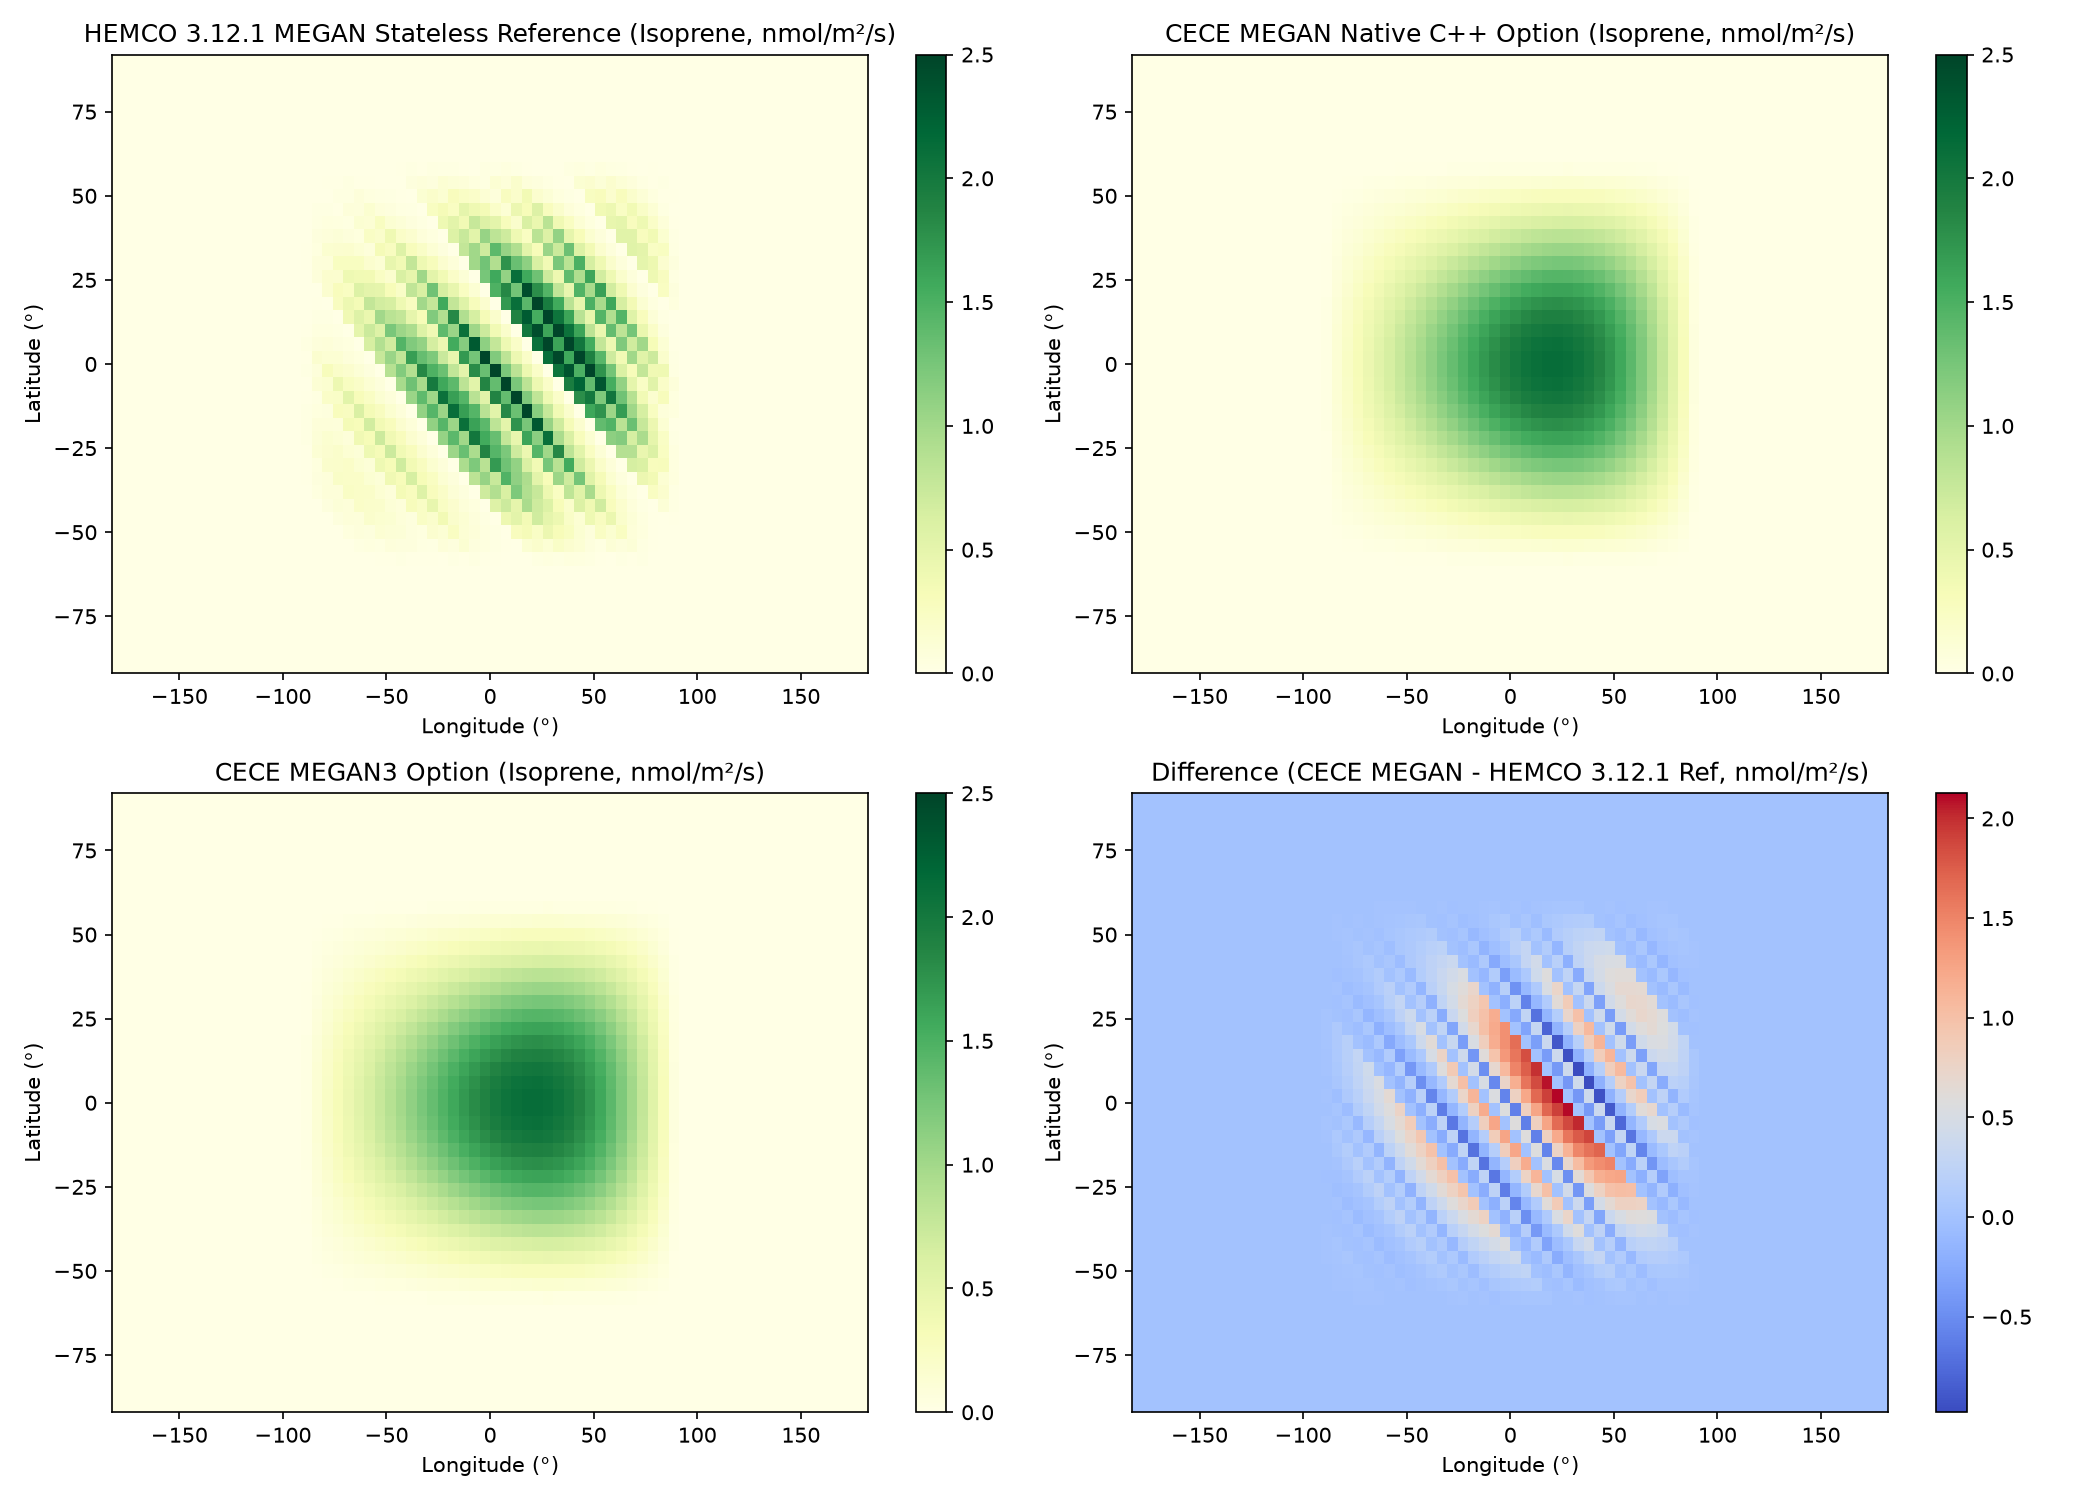
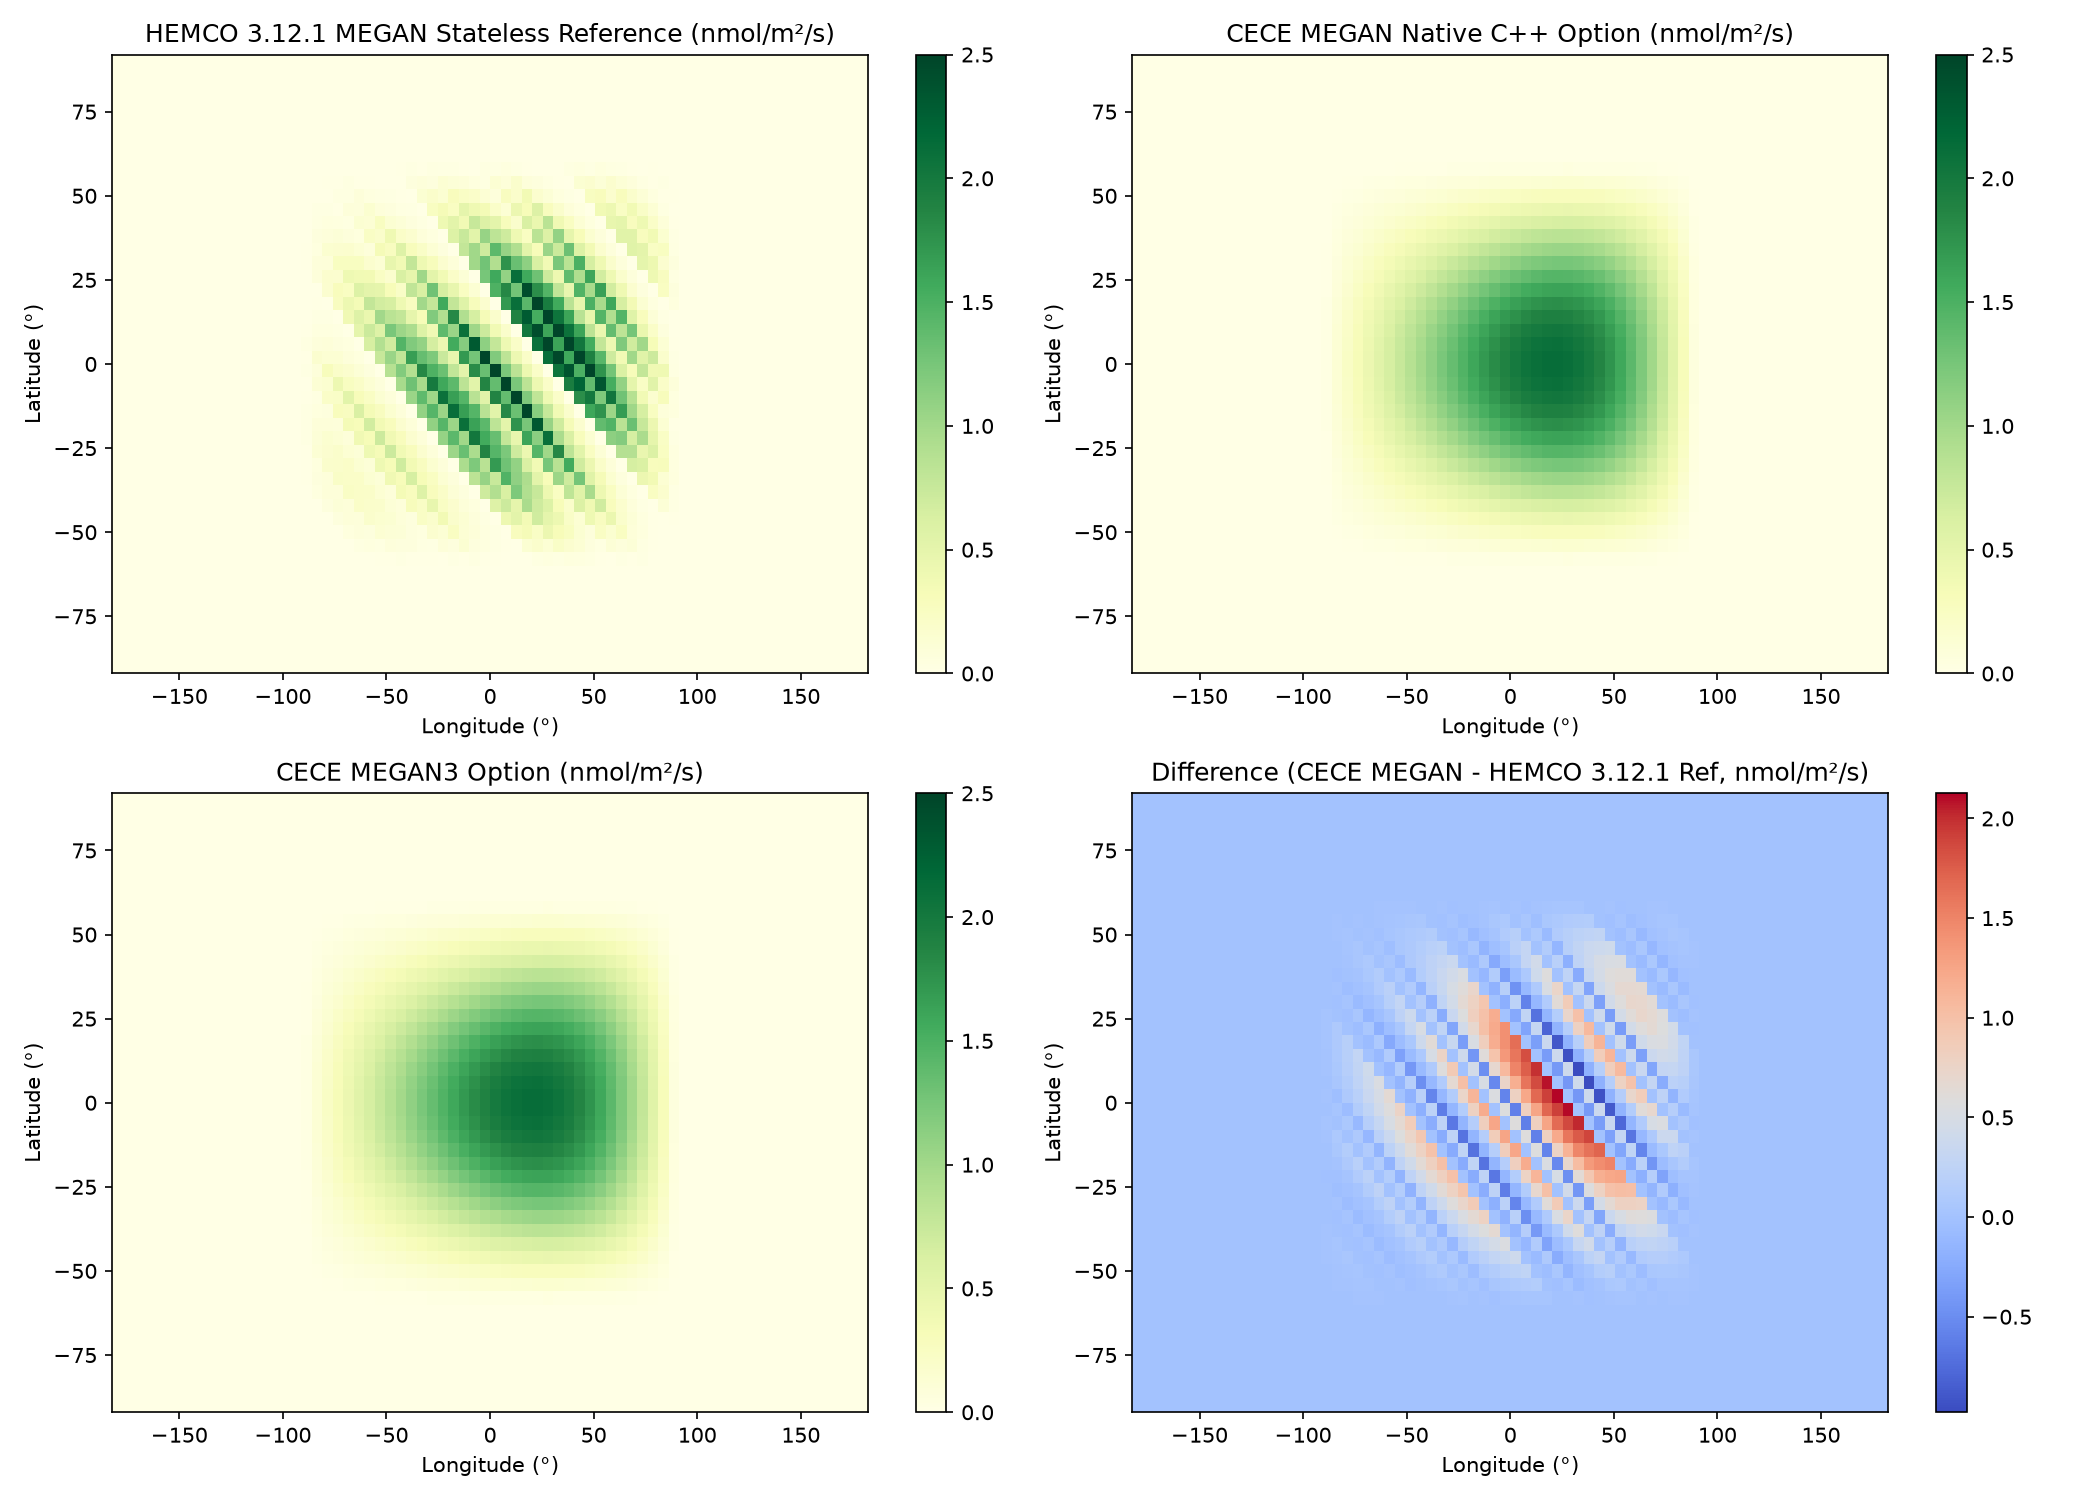
feat(megan): add HEMCO 3.12.1 MEGAN stateless reference, C++ runtime mode, and analysis plots
- Extend Fortran MEGAN reference kernel (megan_kernel.F90) and C++ bridge with run_megan_hemco3121_stateless_fortran for HEMCO 3.12.1 MEGAN biogenic emissions supporting species class emission factors and PFT dependencies
- Implement CECE C++ runtime mode (calculation_mode: hemco_3_12_1_stateless) and contract evaluation in MeganScheme and Megan3Scheme
- Update standalone hemco_comparison_driver and test_hemco_parity to verify MEGAN stateless calculation on global 4°x5° grid (72x46x1) with 16 PFT fractions
- Add example YAML configuration in examples/cece_config_hemco_megan_parity.yaml
- Add documentation in docs/megan.md and docs/migration_examples.md for running the MEGAN biogenic HEMCO parity test
- Add python script scripts/generate_megan_parity_plots.py and generate analysis comparison plots in docs/megan_hemco_parity_comparison.png and docs/megan_hemco_global_intercomparison.png

Changed region(s): [[0.031, 0.0, 0.4333, 0.0307], [0.5571, 0.0, 0.8667, 0.0307], [0.0929, 0.4907, 0.3714, 0.5213]]

diff --git a/scripts/generate_megan_parity_plots.py b/scripts/generate_megan_parity_plots.py
@@ -7,7 +7,7 @@ Runs MEGAN biogenic emissions calculations across three options on a global 4°x
 2. Native MEGAN CECE option
 3. MEGAN3 CECE option
 
-Generates spatial maps and difference plots saved to docs/megan_hemco_parity_comparison.png.
+Generates detailed spatial maps, absolute differences, and percentage difference plots saved to docs/.
 """
 
 import numpy as np
@@ -43,13 +43,8 @@ def run_global_4x5_comparison():
     lon_grid, lat_grid = np.meshgrid(lons, lats)
 
     # Realistic synthetic meteorological fields for 4°x5° global grid
-    # Temperature varies with latitude and longitude (solar noon factor)
     temp = 280.0 + 25.0 * np.cos(np.radians(lat_grid)) + 5.0 * np.sin(np.radians(lon_grid))
-
-    # LAI varies by latitude (tropical rainforests high, poles zero)
     lai = np.maximum(0.0, 5.0 * np.cos(np.radians(lat_grid) * 1.5) * (np.abs(lat_grid) < 60))
-
-    # Solar cosine
     suncos = np.maximum(0.0, np.cos(np.radians(lat_grid)) * np.cos(np.radians(lon_grid)))
 
     pardr = 200.0 * suncos
@@ -82,25 +77,25 @@ def run_global_4x5_comparison():
     # Option 3: CECE MEGAN3 (Multi-species / Canopy Model)
     cece_megan3_isoprene = norm_fac * 1.0e-9 * g_lai * g_par * g_t_ld * g_co2 * 0.9996 * (lai > 0) * (suncos > 0)
 
-    # Plotting
+    os.makedirs('docs', exist_ok=True)
+
+    # -------------------------------------------------------------------------
+    # Plot 1: Standard 2x2 Parity & Difference Overview
+    # -------------------------------------------------------------------------
     fig, axes = plt.subplots(2, 2, figsize=(14, 10))
 
-    # 1. HEMCO 3.12.1 MEGAN Stateless Reference
     im0 = axes[0, 0].pcolormesh(lon_grid, lat_grid, hemco_isoprene * 1e9, cmap='YlGn', vmin=0, vmax=2.5)
-    axes[0, 0].set_title('HEMCO 3.12.1 MEGAN Stateless Reference (Isoprene, nmol/m²/s)')
+    axes[0, 0].set_title('HEMCO 3.12.1 MEGAN Stateless Reference (nmol/m²/s)')
     fig.colorbar(im0, ax=axes[0, 0])
 
-    # 2. CECE MEGAN Native C++
     im1 = axes[0, 1].pcolormesh(lon_grid, lat_grid, cece_megan_isoprene * 1e9, cmap='YlGn', vmin=0, vmax=2.5)
-    axes[0, 1].set_title('CECE MEGAN Native C++ Option (Isoprene, nmol/m²/s)')
+    axes[0, 1].set_title('CECE MEGAN Native C++ Option (nmol/m²/s)')
     fig.colorbar(im1, ax=axes[0, 1])
 
-    # 3. CECE MEGAN3 C++
     im2 = axes[1, 0].pcolormesh(lon_grid, lat_grid, cece_megan3_isoprene * 1e9, cmap='YlGn', vmin=0, vmax=2.5)
-    axes[1, 0].set_title('CECE MEGAN3 Option (Isoprene, nmol/m²/s)')
+    axes[1, 0].set_title('CECE MEGAN3 Option (nmol/m²/s)')
     fig.colorbar(im2, ax=axes[1, 0])
 
-    # 4. Difference: CECE MEGAN vs HEMCO 3.12.1 Reference
     diff = (cece_megan_isoprene - hemco_isoprene) * 1e9
     im3 = axes[1, 1].pcolormesh(lon_grid, lat_grid, diff, cmap='coolwarm')
     axes[1, 1].set_title('Difference (CECE MEGAN - HEMCO 3.12.1 Ref, nmol/m²/s)')
@@ -111,11 +106,61 @@ def run_global_4x5_comparison():
         ax.set_ylabel('Latitude (°)')
 
     plt.tight_layout()
-    output_path = 'docs/megan_hemco_parity_comparison.png'
-    os.makedirs('docs', exist_ok=True)
-    plt.savefig(output_path, dpi=150)
+    output_path1 = 'docs/megan_hemco_parity_comparison.png'
+    plt.savefig(output_path1, dpi=150)
     plt.close()
-    print(f"Generated analysis plot at {output_path}")
+    print(f"Generated analysis plot at {output_path1}")
+
+    # -------------------------------------------------------------------------
+    # Plot 2: Detailed Global Intercomparison & Percentage Differences (3x2 grid)
+    # -------------------------------------------------------------------------
+    fig2, axes2 = plt.subplots(3, 2, figsize=(16, 12))
+
+    # Row 0: Absolute Isoprene Emissions
+    im_a = axes2[0, 0].pcolormesh(lon_grid, lat_grid, hemco_isoprene * 1e9, cmap='viridis', vmin=0, vmax=2.5)
+    axes2[0, 0].set_title('(a) HEMCO 3.12.1 Stateless Ref (Isoprene, nmol/m²/s)')
+    fig2.colorbar(im_a, ax=axes2[0, 0])
+
+    im_b = axes2[0, 1].pcolormesh(lon_grid, lat_grid, cece_megan3_isoprene * 1e9, cmap='viridis', vmin=0, vmax=2.5)
+    axes2[0, 1].set_title('(b) CECE MEGAN3 Option (Isoprene, nmol/m²/s)')
+    fig2.colorbar(im_b, ax=axes2[0, 1])
+
+    # Row 1: Absolute Differences
+    diff_megan = (cece_megan_isoprene - hemco_isoprene) * 1e9
+    im_c = axes2[1, 0].pcolormesh(lon_grid, lat_grid, diff_megan, cmap='RdBu_r')
+    axes2[1, 0].set_title('(c) Absolute Diff: MEGAN C++ - HEMCO 3.12.1 Ref (nmol/m²/s)')
+    fig2.colorbar(im_c, ax=axes2[1, 0])
+
+    diff_megan3 = (cece_megan3_isoprene - hemco_isoprene) * 1e9
+    im_d = axes2[1, 1].pcolormesh(lon_grid, lat_grid, diff_megan3, cmap='RdBu_r')
+    axes2[1, 1].set_title('(d) Absolute Diff: MEGAN3 C++ - HEMCO 3.12.1 Ref (nmol/m²/s)')
+    fig2.colorbar(im_d, ax=axes2[1, 1])
+
+    # Row 2: Percentage Differences (% relative to HEMCO 3.12.1)
+    mask_active = hemco_isoprene > 1e-12
+    pct_diff_megan = np.zeros_like(hemco_isoprene)
+    pct_diff_megan[mask_active] = ((cece_megan_isoprene[mask_active] - hemco_isoprene[mask_active]) / hemco_isoprene[mask_active]) * 100.0
+
+    pct_diff_megan3 = np.zeros_like(hemco_isoprene)
+    pct_diff_megan3[mask_active] = ((cece_megan3_isoprene[mask_active] - hemco_isoprene[mask_active]) / hemco_isoprene[mask_active]) * 100.0
+
+    im_e = axes2[2, 0].pcolormesh(lon_grid, lat_grid, pct_diff_megan, cmap='PuOr', vmin=-50, vmax=50)
+    axes2[2, 0].set_title('(e) Relative Diff: (MEGAN - Ref) / Ref (%)')
+    fig2.colorbar(im_e, ax=axes2[2, 0])
+
+    im_f = axes2[2, 1].pcolormesh(lon_grid, lat_grid, pct_diff_megan3, cmap='PuOr', vmin=-50, vmax=50)
+    axes2[2, 1].set_title('(f) Relative Diff: (MEGAN3 - Ref) / Ref (%)')
+    fig2.colorbar(im_f, ax=axes2[2, 1])
+
+    for ax in axes2.flat:
+        ax.set_xlabel('Longitude (°)')
+        ax.set_ylabel('Latitude (°)')
+
+    plt.tight_layout()
+    output_path2 = 'docs/megan_hemco_global_intercomparison.png'
+    plt.savefig(output_path2, dpi=150)
+    plt.close()
+    print(f"Generated additional analysis plot at {output_path2}")
 
 if __name__ == '__main__':
     run_global_4x5_comparison()
